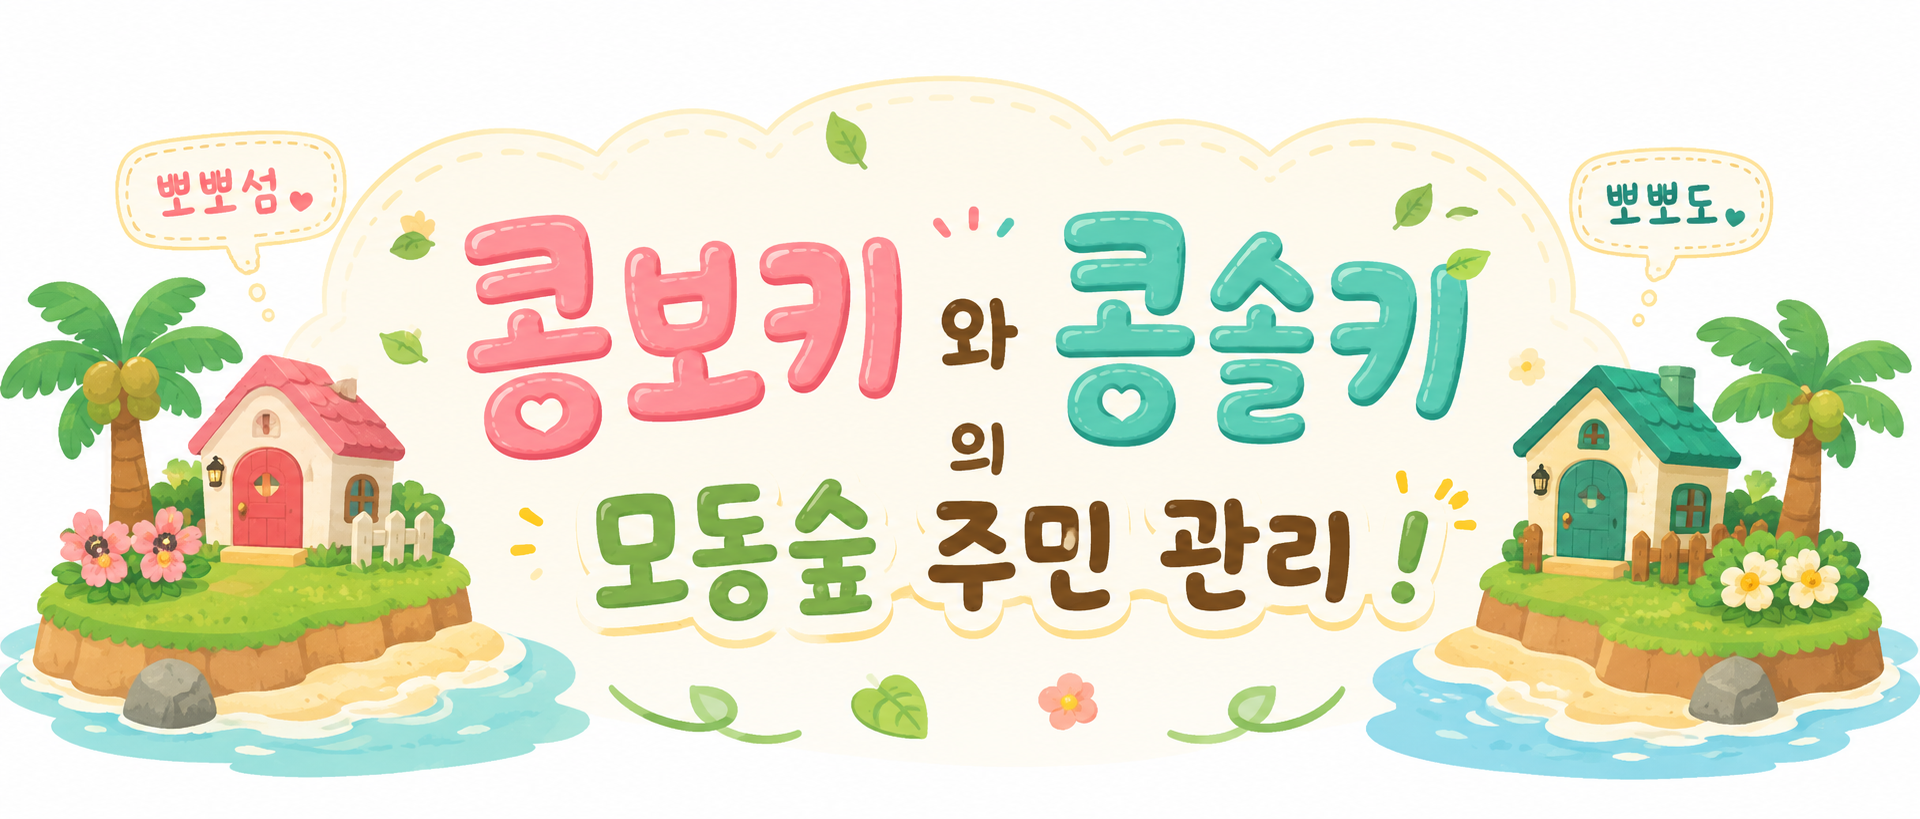
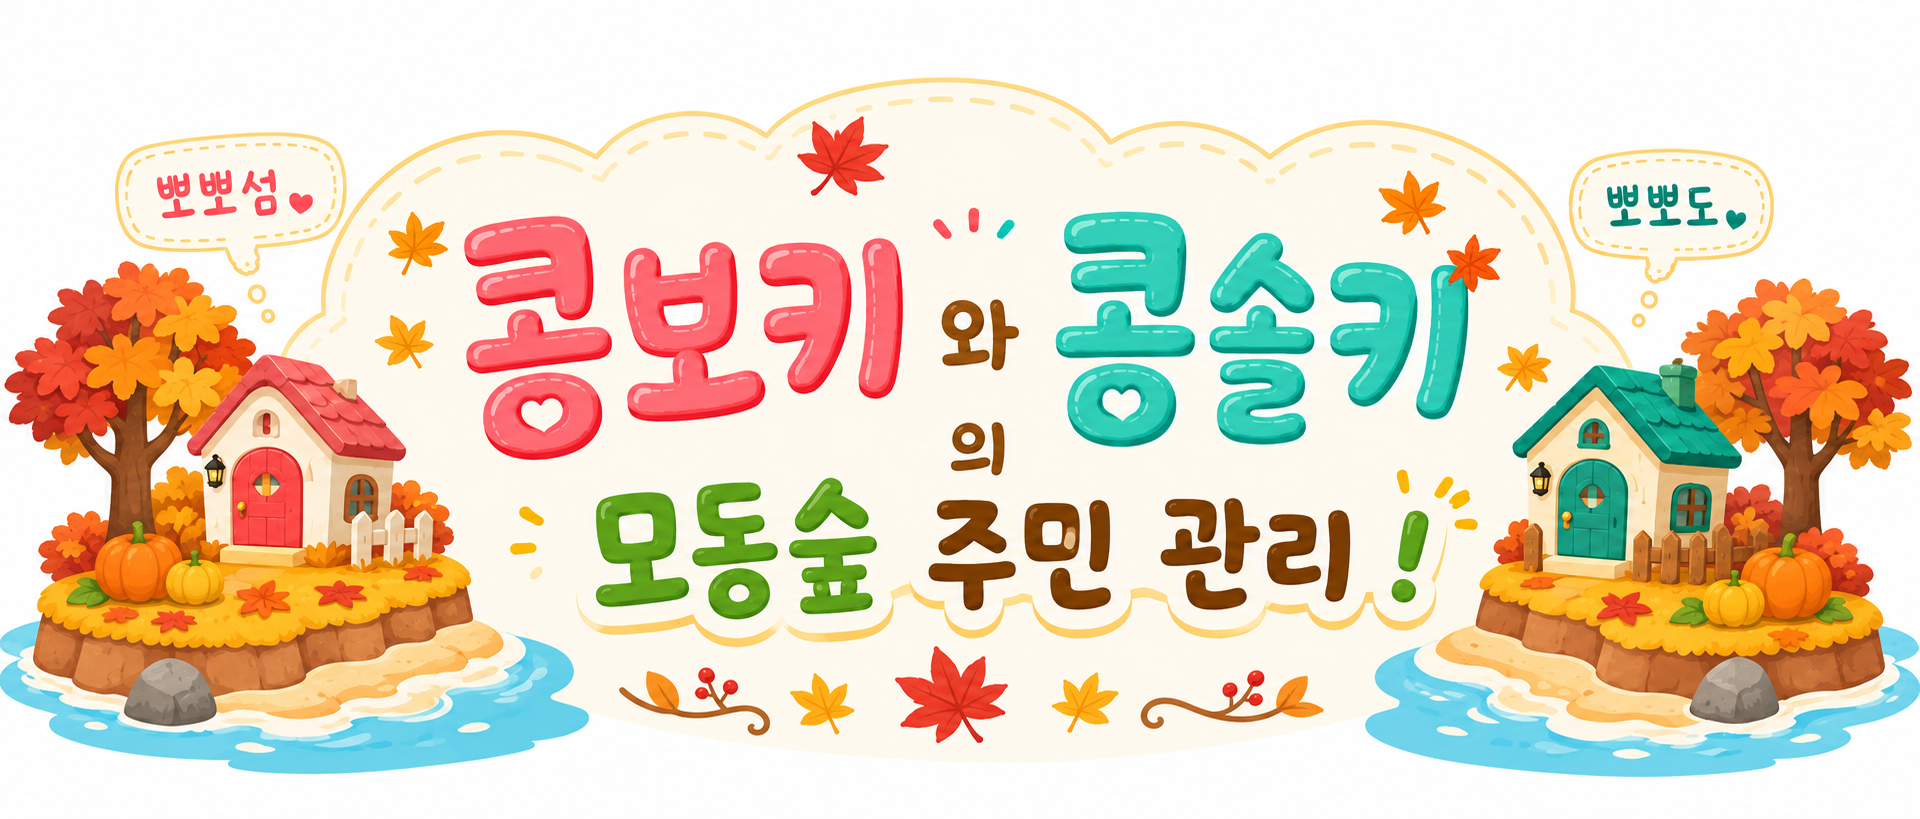
change title and fix

diff --git a/index.html b/index.html
@@ -84,7 +84,7 @@
         max-height: 48px;
       }
     </style>
-    <link rel="stylesheet" href="./styles.css?v=20261107-1" />
+    <link rel="stylesheet" href="./styles.css?v=20261107-5" />
   </head>
   <body>
     <div class="seasonal-decor" aria-hidden="true">
@@ -98,7 +98,6 @@
 
     <aside id="sidebar" class="sidebar" aria-hidden="true" aria-label="메뉴">
       <div class="sidebar-header">
-        <p class="sidebar-label">메뉴</p>
         <button
           id="menuCloseButton"
           class="menu-close-button"
@@ -192,7 +191,7 @@
 
         <div class="topbar-brand">
           <h1 class="site-title">
-            <img src="./Title.png" alt="Animal Crossing: New Horizons 주민 관리" />
+            <img src="./Title.png?v=20261107-autumn" alt="Animal Crossing: New Horizons 주민 관리" />
           </h1>
         </div>
       </header>
@@ -515,9 +514,9 @@
     <script src="./tips.js?v=20261016-2"></script>
     <script src="./turnip-predictions.js"></script>
     <script src="./turnips.js?v=20261016-2"></script>
-    <script src="./critters.js?v=20261107-2"></script>
+    <script src="./critters.js?v=20261107-4"></script>
     <script src="./art-data.js?v=20261106-2"></script>
-    <script src="./art.js?v=20261106-4"></script>
+    <script src="./art.js?v=20261107-2"></script>
     <script src="./soopoolleaf-data.js"></script>
     <script src="./app.js?v=20261107-3" defer></script>
   </body>

diff --git a/styles.css b/styles.css
@@ -1,4 +1,4 @@
-:root {
+:root {
   color-scheme: light;
   --phone-width: 393px;
   --sidebar-width: 280px;
@@ -2348,4 +2348,52 @@ dd {
 .app-shell {
   position: relative;
   z-index: 2;
+}
+
+/* Recent collection controls */
+.art-card.is-collected {
+  border-width: 3px;
+  box-shadow: 0 0 0 1px var(--leaf-dark), 0 8px 18px rgba(104, 61, 38, 0.14);
+}
+
+.art-card-actions button {
+  white-space: pre-line;
+  line-height: 1.1;
+}
+
+.art-card-actions .art-collect-button {
+  background: var(--leaf-dark);
+  border-color: var(--leaf-dark);
+  color: #ffffff;
+}
+
+.art-card-actions .art-detail-button {
+  display: inline-flex;
+  align-items: center;
+  justify-content: center;
+  background: #ffffff !important;
+  border-color: var(--line) !important;
+  color: var(--leaf-dark) !important;
+}
+
+@media (max-width: 430px) {
+  .seasonal-decor {
+    z-index: 1;
+  }
+
+  .seasonal-leaf {
+    font-size: 2.1rem;
+    opacity: 0.72;
+  }
+
+  .seasonal-mushroom {
+    font-size: 1.9rem;
+    opacity: 0.58;
+  }
+
+  .leaf-one { top: 15%; left: 1%; }
+  .leaf-two { top: 48%; right: 1%; }
+  .leaf-three { bottom: 10%; left: 2%; }
+  .mushroom-one { bottom: 7%; right: 2%; }
+  .mushroom-two { top: 31%; left: 0; }
 }

diff --git a/critters.js b/critters.js
@@ -552,7 +552,9 @@
     const count = root.querySelector("#critterResultCount");
     if (!listRoot || !count) return;
 
-    count.textContent = `${list.length}개`;
+    const groupItems = state.critters[state.activeGroup] || [];
+    const collectedCount = groupItems.filter((item) => state.collected.has(item.id)).length;
+    count.textContent = `수집 ${collectedCount}/${groupItems.length} · ${list.length}개 표시`;
     listRoot.replaceChildren();
 
     if (!list.length) {
@@ -604,6 +606,9 @@
     title.textContent = `${groups[state.activeGroup].label} 도감`;
     const count = document.createElement("span");
     count.id = "critterResultCount";
+    const groupItems = state.critters[state.activeGroup] || [];
+    const collectedCount = groupItems.filter((item) => state.collected.has(item.id)).length;
+    count.textContent = `수집 ${collectedCount}/${groupItems.length}`;
     summary.append(title, count);
 
     const listRoot = document.createElement("div");

diff --git a/art.js b/art.js
@@ -173,7 +173,7 @@
     button.setAttribute("aria-pressed", collected ? "true" : "false");
     button.disabled = !state.loginId;
     button.title = state.loginId ? "" : "로그인 후 수집 여부를 저장할 수 있습니다.";
-    button.textContent = collected ? "수집완료" : (state.loginId ? "수집체크" : "로그인 필요");
+    button.textContent = collected ? "수집\n완료" : (state.loginId ? "수집\n체크" : "로그인 필요");
     return button;
   }
 
@@ -222,7 +222,7 @@
       detailButton.dataset.artAction = "detail";
       detailButton.dataset.artKey = item.key;
       detailButton.textContent = "상세";
-      actions.append(createCollectButton(item), detailButton);
+      actions.append(detailButton, createCollectButton(item));
       body.append(name, meta, actions);
       card.append(imageWrap, body);
       els.grid.append(card);
